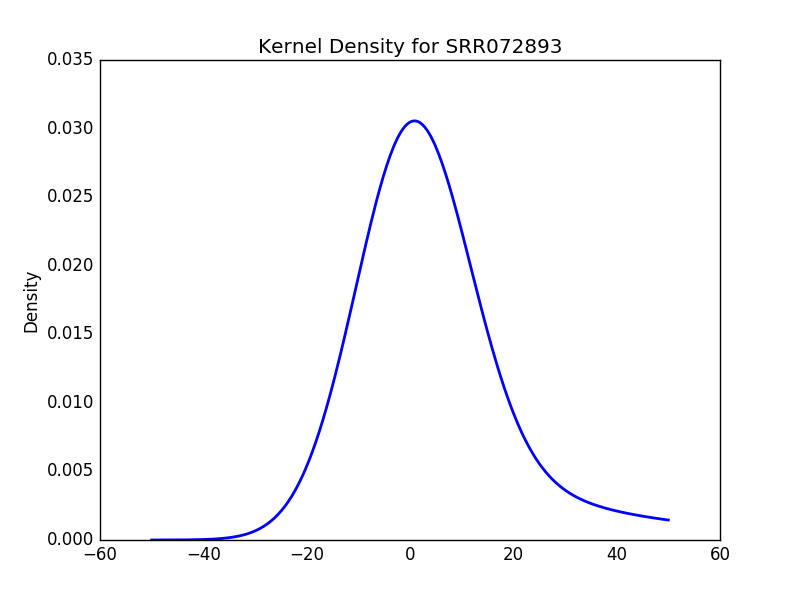
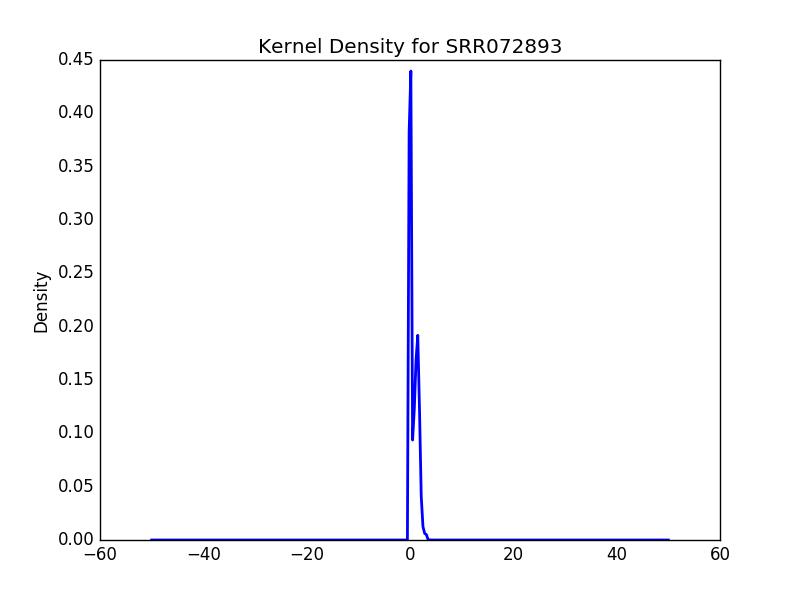
Fixing density plot

diff --git a/day4-homework/d4-hw4.py b/day4-homework/d4-hw4.py
@@ -9,16 +9,20 @@ from scipy.stats import gaussian_kde
 
 df = pd.read_table(sys.argv[1])
 
-for_dens = df["FPKM"]
-density = gaussian_kde(for_dens)
-data = np.linspace(-50,50,300)
+for_dens = df["FPKM"] + 1
+w_log = np.log10(for_dens)
+
+density = gaussian_kde(w_log)
+data = np.linspace(-1,4, 200)
 
 plt.figure()
-plt.plot(data, density(data), linewidth = 2)
+plt.plot(data, density(data), linewidth = 1)
 plt.ylabel("Density")
+plt.xlabel("FPKM")
 plt.title("Kernel Density for SRR072893")
-plt.tick_params(axis='x',top='off',bottom='off')
-plt.tick_params(axis='y',left='off',right='off')
+plt.tick_params(axis='x',top='off')
+plt.tick_params(axis='y',left='off')
 plt.savefig("KDE_plot.png")
 plt.close()
+
 
